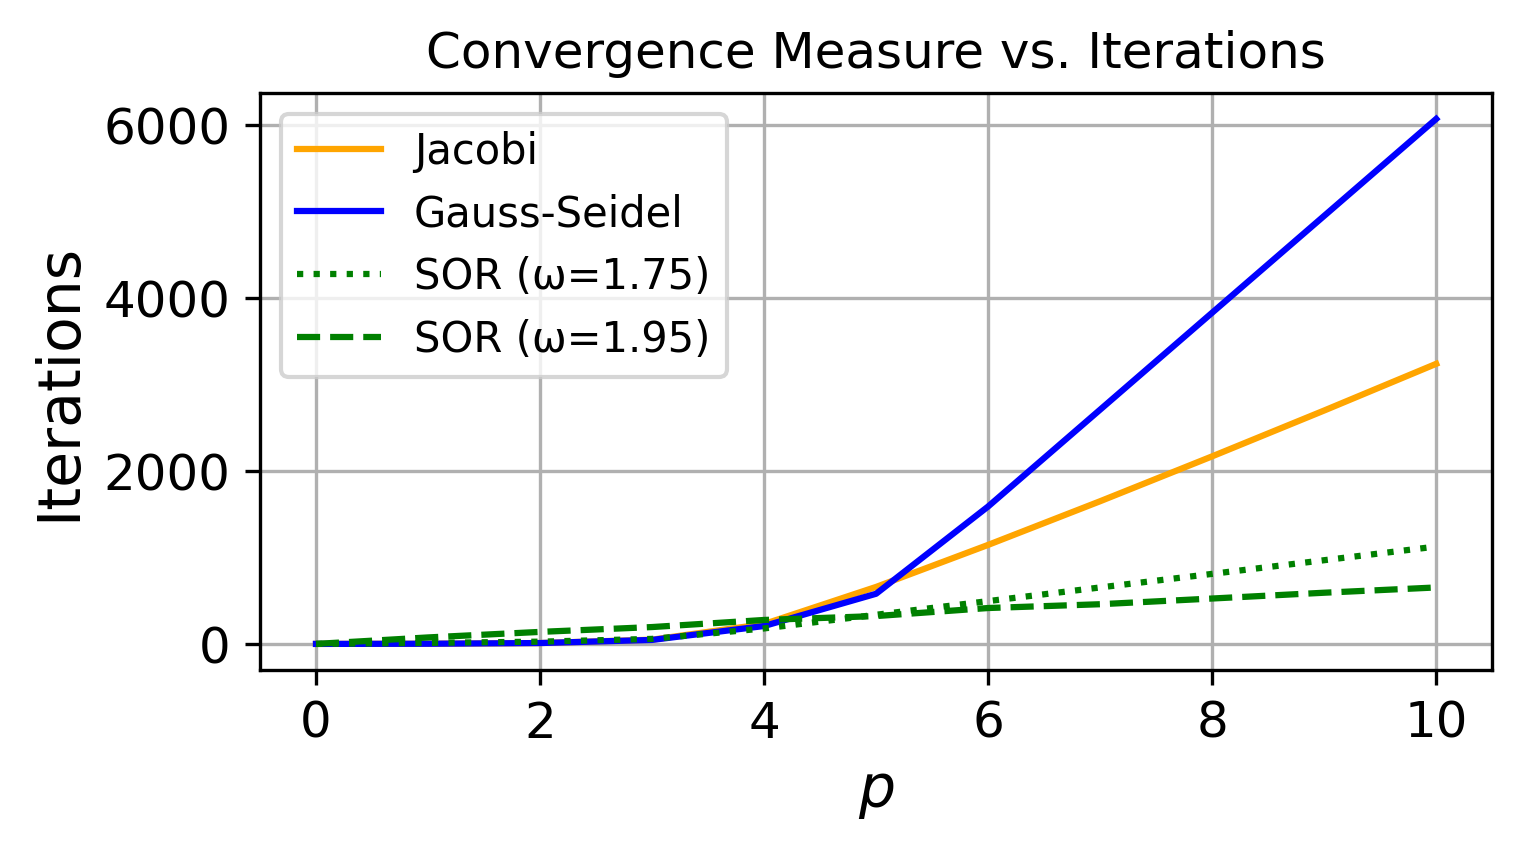
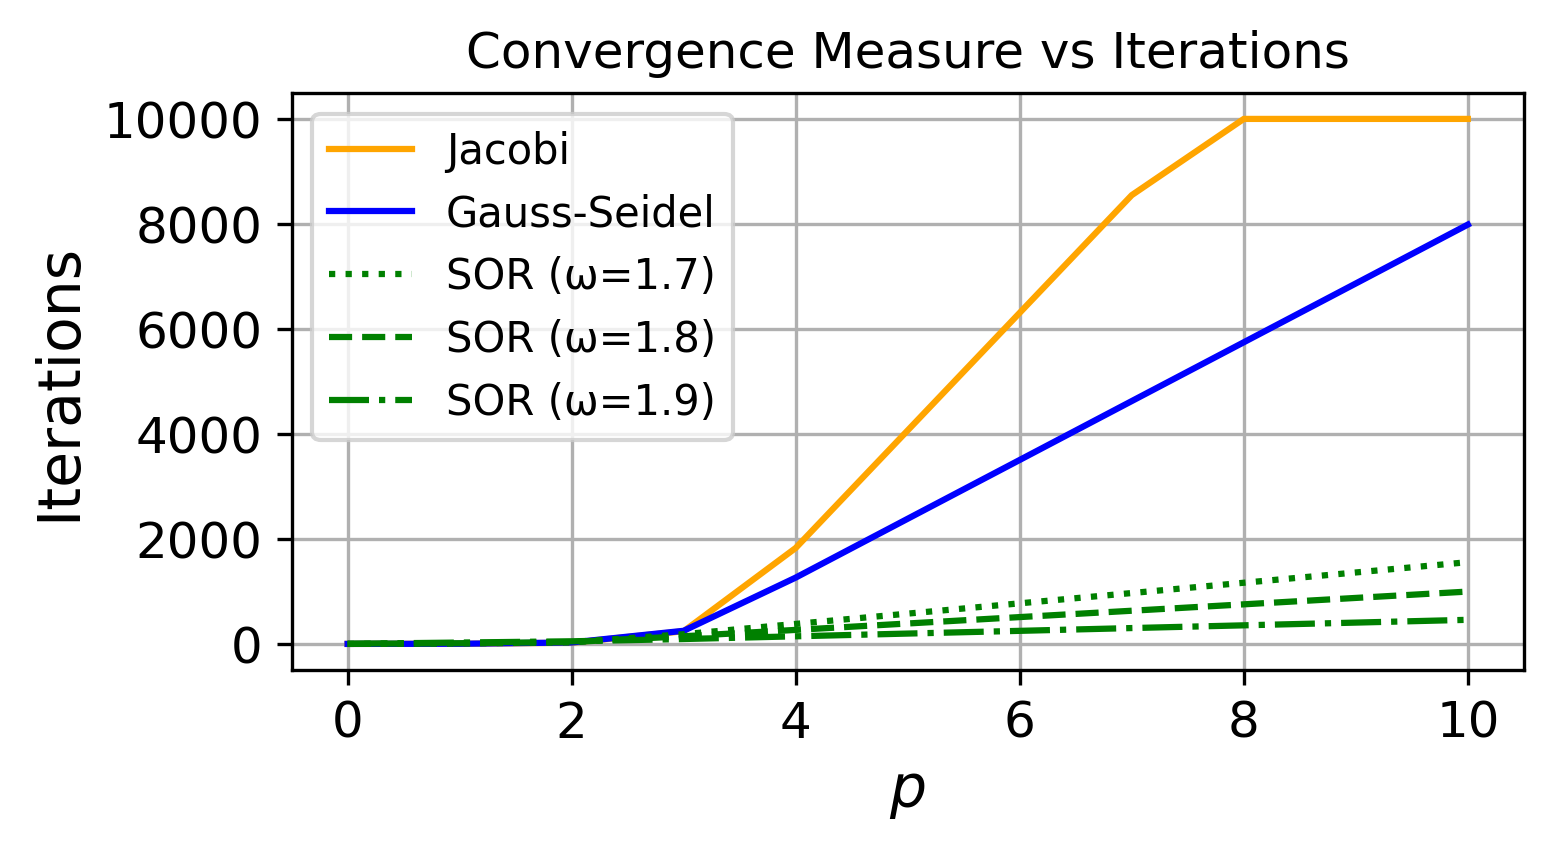
fixed the boundary conditions, plotted 1H, changed the other plots with new methods

diff --git a/src/solutions.py b/src/solutions.py
@@ -415,6 +415,7 @@ def sequential_jacobi(N, tol, max_iters):
 
     Returns:
         int: Number of iterations required to reach convergence.
+        numpy.ndarray: Final grid after iterations.
     """
 
     # grid initialisation
@@ -427,26 +428,13 @@ def sequential_jacobi(N, tol, max_iters):
     while delta > tol and iter < max_iters:
         delta = 0
 
-        for i in range(0, N):  # periodic in x
-            for j in range(1, N - 1):  # fixed in y
-                # add
-                # if (c_old is a source) c_next = cL
-                # else if (c_old is a sink) c_next = c0
+        for i in range(1, N-1):
+            for j in range(0, N):
 
-                # periodic boundaries
-                if i == 0:
-                    west = c_old[N - 1, j]
-                else:
-                    west = c_old[i - 1, j]
-
-                if i == N - 1:
-                    east = c_old[0, j]
-                else:
-                    east = c_old[i + 1, j]
-
-                # fixed boundaries
-                south = 0 if j == 0 else c_old[i, j - 1]
-                north = 1 if j == N - 1 else c_old[i, j + 1]
+                south = c_old[i - 1, j] if i > 0 else 0
+                north = c_old[i + 1, j] if i < N - 1 else 1
+                west = c_old[i, j - 1] if j > 0 else c_old[i, N-1]
+                east = c_old[i, j + 1] if j < N - 1 else c_old[i,0]
 
                 # Jacobi update equation
                 c_next[i, j] = 0.25 * (west + east + south + north)
@@ -454,11 +442,12 @@ def sequential_jacobi(N, tol, max_iters):
                 delta = max(delta, abs(c_next[i, j] - c_old[i, j]))
 
         # swap matrices for next iter
-        c_old[:], c_next[:] = c_next, c_old
+        c_old = np.copy(c_next)
+        c_next = initialize_grid(N)
 
         iter += 1
 
-    return iter
+    return iter, c_old
 
 
 def sequential_gauss_seidel(N, tol, max_iters):
@@ -475,6 +464,7 @@ def sequential_gauss_seidel(N, tol, max_iters):
 
     Returns:
         int: Number of iterations required to reach convergence.
+        numpy.ndarray: Final grid after iterations.
     """
 
     # grid initialisation
@@ -486,13 +476,13 @@ def sequential_gauss_seidel(N, tol, max_iters):
     while delta > tol and iter < max_iters:
         delta = 0
 
-        for i in range(0, N):  # periodic in x
-            for j in range(1, N - 1):  # fixed in y
-                # periodic boundary conditions
-                west = c[i - 1, j] if i > 0 else c[N - 1, j]
-                east = c[i + 1, j] if i < N - 1 else c[0, j]
-                south = c[i, j - 1] if j > 0 else 0
-                north = c[i, j + 1] if j < N - 1 else 1
+        for i in range(1, N-1):
+            for j in range(0, N):
+
+                south = c[i - 1, j] if i > 0 else 0
+                north = c[i + 1, j] if i < N - 1 else 1
+                west = c[i, j - 1] if j > 0 else c[i, N-1]
+                east = c[i, j + 1] if j < N - 1 else c[i,0]
 
                 # Gauss-Seidel update equation
                 c_next = 0.25 * (west + east + south + north)
@@ -502,7 +492,7 @@ def sequential_gauss_seidel(N, tol, max_iters):
 
         iter += 1
 
-    return iter
+    return iter, c
 
 
 def sequential_SOR(N, tol, max_iters, omega):
@@ -520,6 +510,7 @@ def sequential_SOR(N, tol, max_iters, omega):
 
     Returns:
         int: Number of iterations required to reach convergence.
+        numpy.ndarray: Final grid after iterations. 
     """
 
     # grid initialisation
@@ -531,13 +522,13 @@ def sequential_SOR(N, tol, max_iters, omega):
     while delta > tol and iter < max_iters:
         delta = 0
 
-        for i in range(0, N):  # periodic in x
-            for j in range(1, N - 1):  # fixed in y
-                # periodic boundary conditions
-                west = c[i - 1, j] if i > 0 else c[N - 1, j]
-                east = c[i + 1, j] if i < N - 1 else c[0, j]
-                south = c[i, j - 1] if j > 0 else 0
-                north = c[i, j + 1] if j < N - 1 else 1
+        for i in range(1, N-1):
+            for j in range(N):
+
+                south = c[i - 1, j] if i > 0 else 0
+                north = c[i + 1, j] if i < N - 1 else 1
+                west = c[i, j - 1] if j > 0 else c[i, N-1]
+                east = c[i, j + 1] if j < N - 1 else c[i,0]
 
                 # SOR update equation
                 c_next = (omega / 4) * (west + east + south + north) + (1 - omega) * c[
@@ -549,4 +540,4 @@ def sequential_SOR(N, tol, max_iters, omega):
 
         iter += 1
 
-    return iter
+    return iter, c

diff --git a/src/visualizations.py b/src/visualizations.py
@@ -224,6 +224,40 @@ def animate_2f(update_func, grid, num_steps, N, gamma, dt, interval=50):
     plt.close(fig)
     return animation
 
+def visualization_1h(c_jacobi_2d, c_gs_2d, c_sor_2d, N):
+    """
+    Visualizes the absolute error betweeen the solution of the iterative methods: Jacobi, Gauss-Seidel,
+    and SOR methods with the analytical solution for a grid size of 50.
+    
+    Parameters:
+        c_jacobi_2d: 2D array representing the solution using the Jacobi method.
+        c_gs_2d: 2D array representing the solution using the Gauss-Seidel method.
+        c_sor_2d: 2D array representing the solution using the SOR method.
+        N (int): The number of grid points used in the simulation.
+    """
+
+    y_analytic = np.linspace(0, 1, N)
+
+    c_jacobi_1d = c_jacobi_2d[:,0]
+    c_gs_1d = c_gs_2d[:,0]
+    c_sor_1d = c_sor_2d[:,0]
+
+    error_jacobi = np.abs(c_jacobi_1d - y_analytic)
+    error_gs = np.abs(c_gs_1d - y_analytic)
+    error_sor = np.abs(c_sor_1d - y_analytic)
+
+    
+    plt.figure(figsize=(6.7, 3.5))
+    plt.plot(y_analytic, error_jacobi, "o", markersize=2, label="Jacobi")
+    plt.plot(y_analytic, error_gs, "o", markersize=2, label="Gauss-Seidel")
+    plt.plot(y_analytic, error_sor, "o", markersize=2, label="SOR")
+    plt.xlabel("y (Position)")
+    plt.ylabel("Absolute error")
+    plt.title("Error Simulation and Analytical Solution")
+    plt.legend()
+    plt.grid(True)
+    plt.savefig("plots/fig_1h.png", dpi=300, bbox_inches="tight")
+    plt.show()
 
 def visualization_1i(
     p_values, iterations_jacobi, iterations_gauss_seidel, iterations_sor, colors
@@ -257,14 +291,13 @@ def visualization_1i(
             linestyle=linestyles[i % num_styles],
         )
 
-    # plt.plot(p_values, iterations_sor, color=colors[2], label="Successive Over Relaxation")
     plt.xlabel(r"$p$", fontsize=14)
     plt.ylabel("Iterations", fontsize=14)
     plt.xticks(fontsize=12)
     plt.yticks(fontsize=12)
     plt.legend(fontsize=10, loc="upper left")
     plt.grid(True)
-    plt.title("Convergence Measure vs. Iterations")
+    plt.title("Convergence Measure vs Iterations")
     plt.savefig("plots/fig_1i.png", dpi=300, bbox_inches="tight")
     plt.show()
 
@@ -296,8 +329,8 @@ def visualization_1j_omega_iters(iters_N, omega_range, colors):
     plt.xlabel(r"$\omega$", fontsize=14)
     plt.yscale("log")
     plt.ylabel("Iterations", fontsize=14)
-    plt.legend(fontsize=10, loc="upper left")
-    plt.title("SOR Convergence Speed vs. ω", fontsize=14)
+    plt.legend(fontsize=10, loc="upper left", ncol=2)
+    plt.title("SOR Convergence Speed vs ω", fontsize=14)
     plt.grid(True)
     plt.savefig("plots/fig_1ja.png", dpi=300, bbox_inches="tight")
     plt.show()
@@ -317,7 +350,7 @@ def visualization_1j_N_omegas(N_values, optimal_omegas, colors):
     plt.plot(N_values, optimal_omegas, marker="o", linestyle="-", color=colors[2])
     plt.xlabel("Grid Size N", fontsize=14)
     plt.ylabel("Optimal ω", fontsize=14)
-    plt.title("Optimal ω vs. Grid Size N", fontsize=14)
+    plt.title("Optimal ω vs Grid Size N", fontsize=14)
     plt.grid(True)
     plt.savefig("plots/fig_1jb.png", dpi=300, bbox_inches="tight")
     plt.show()
